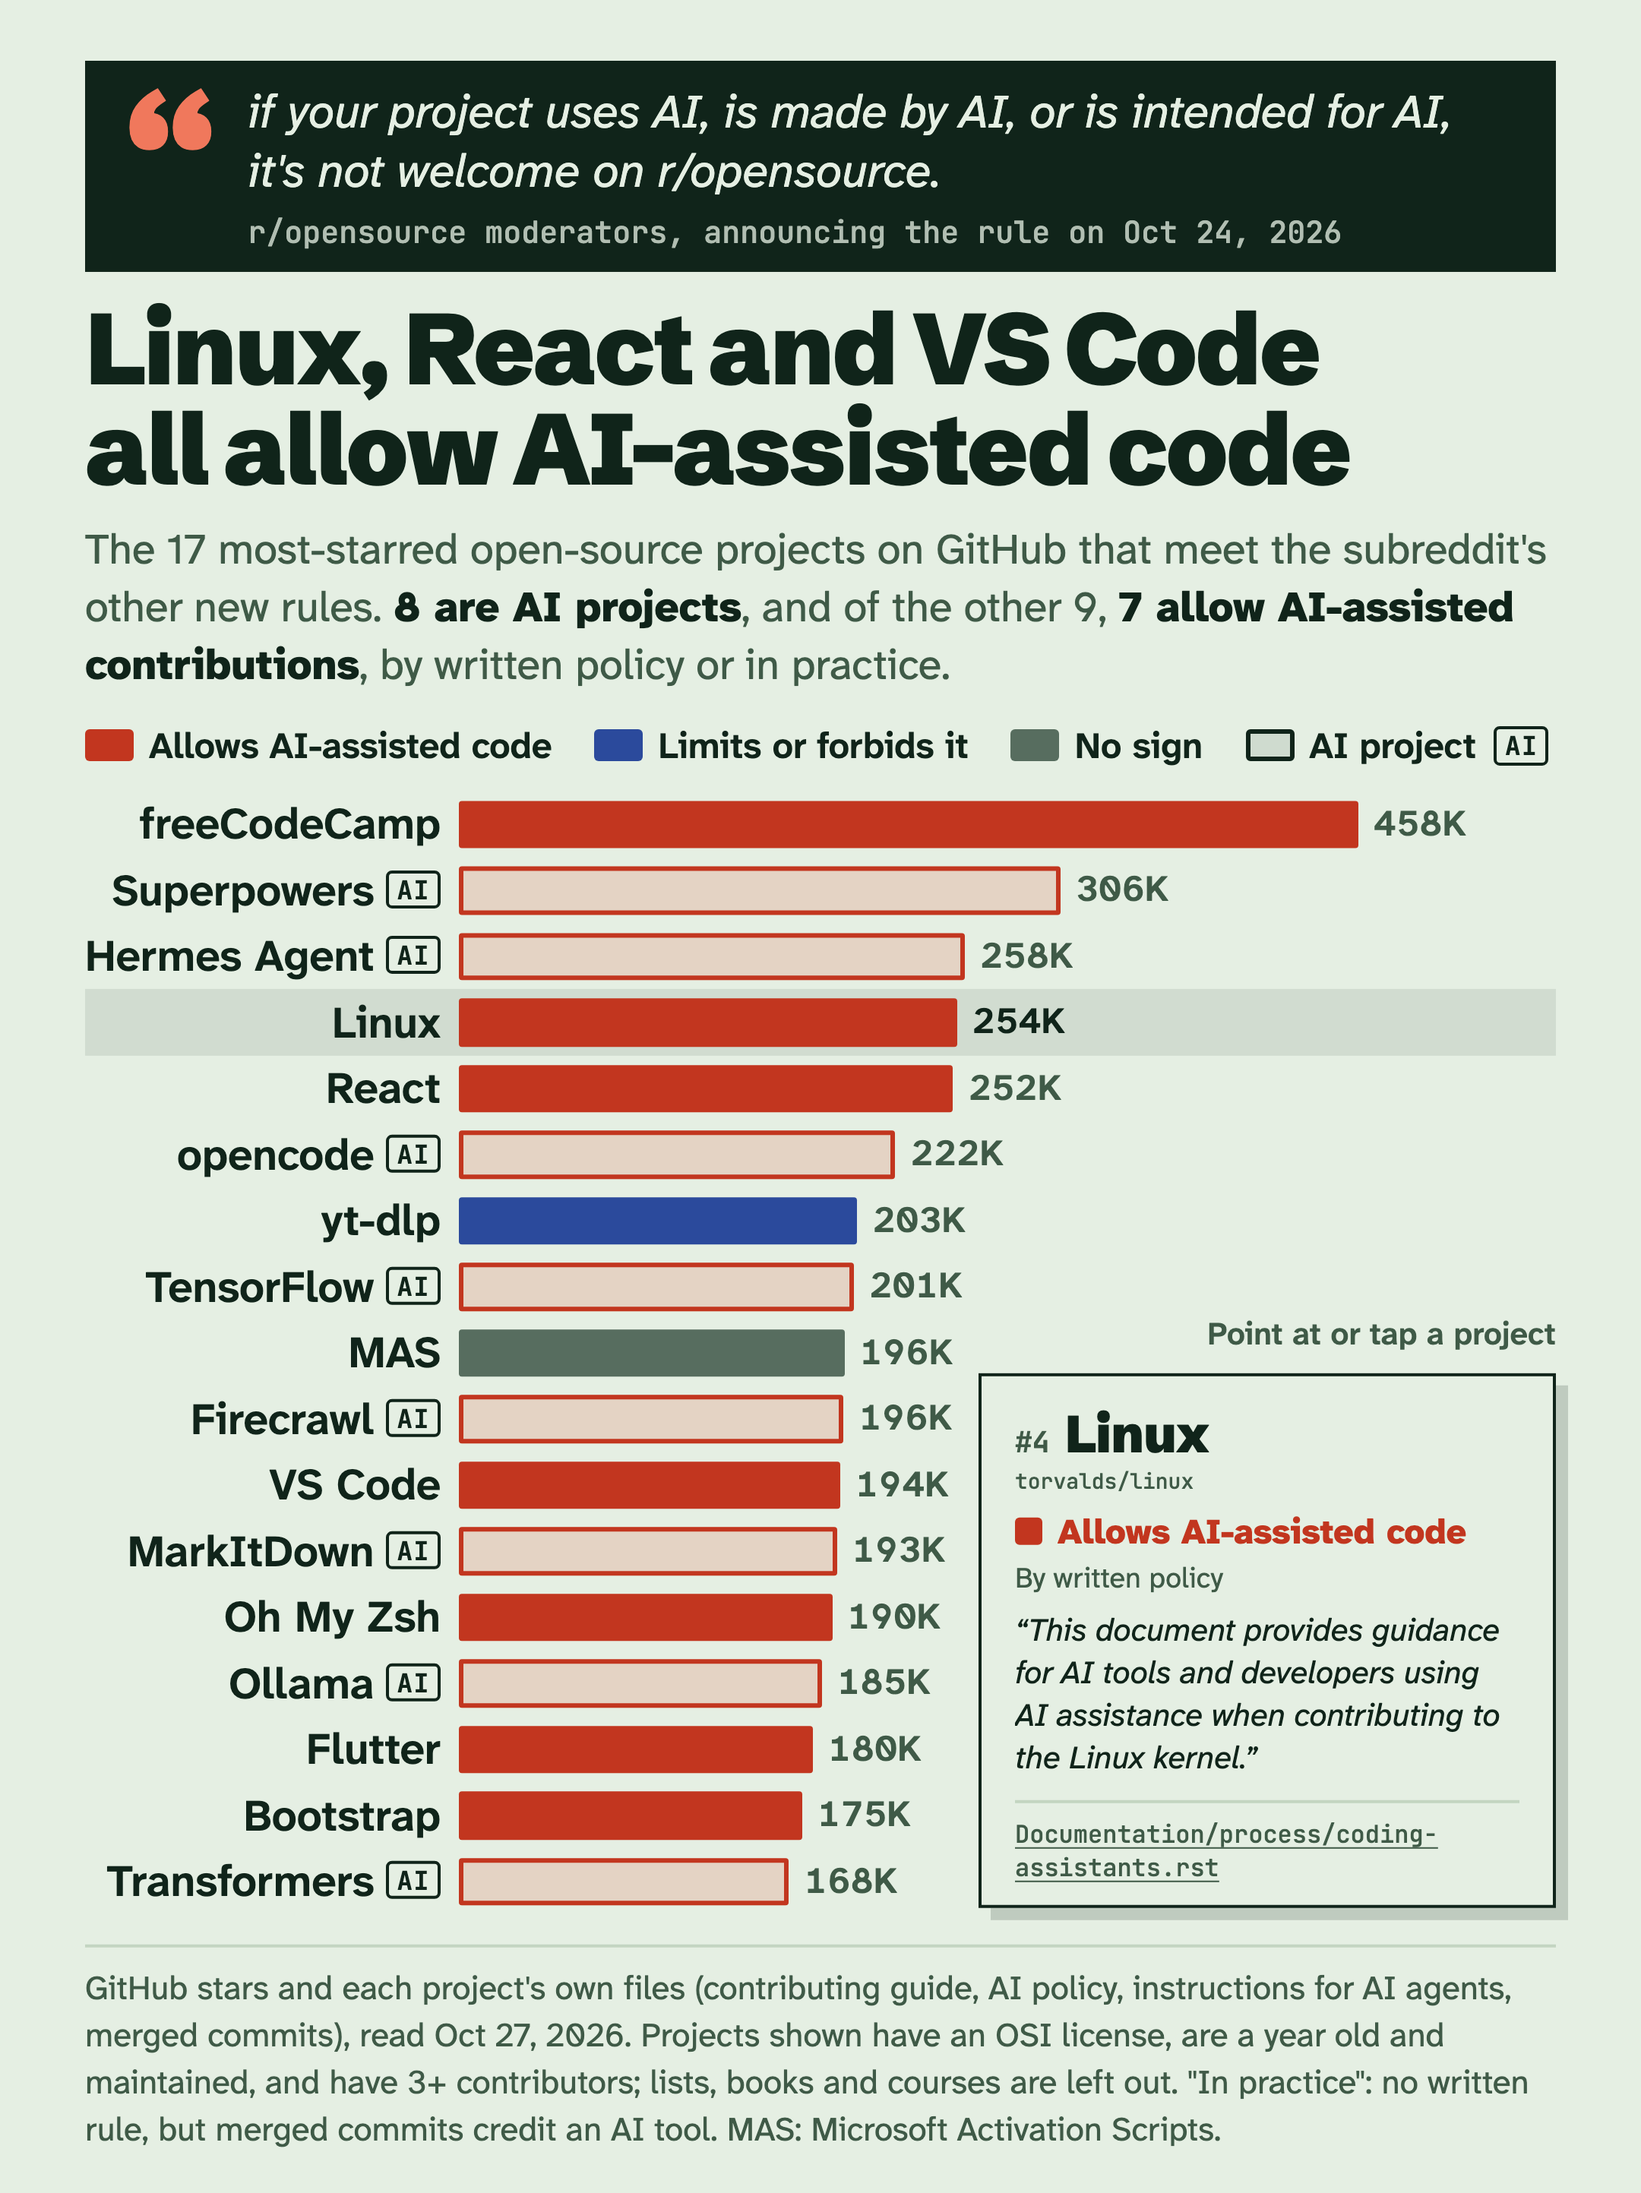
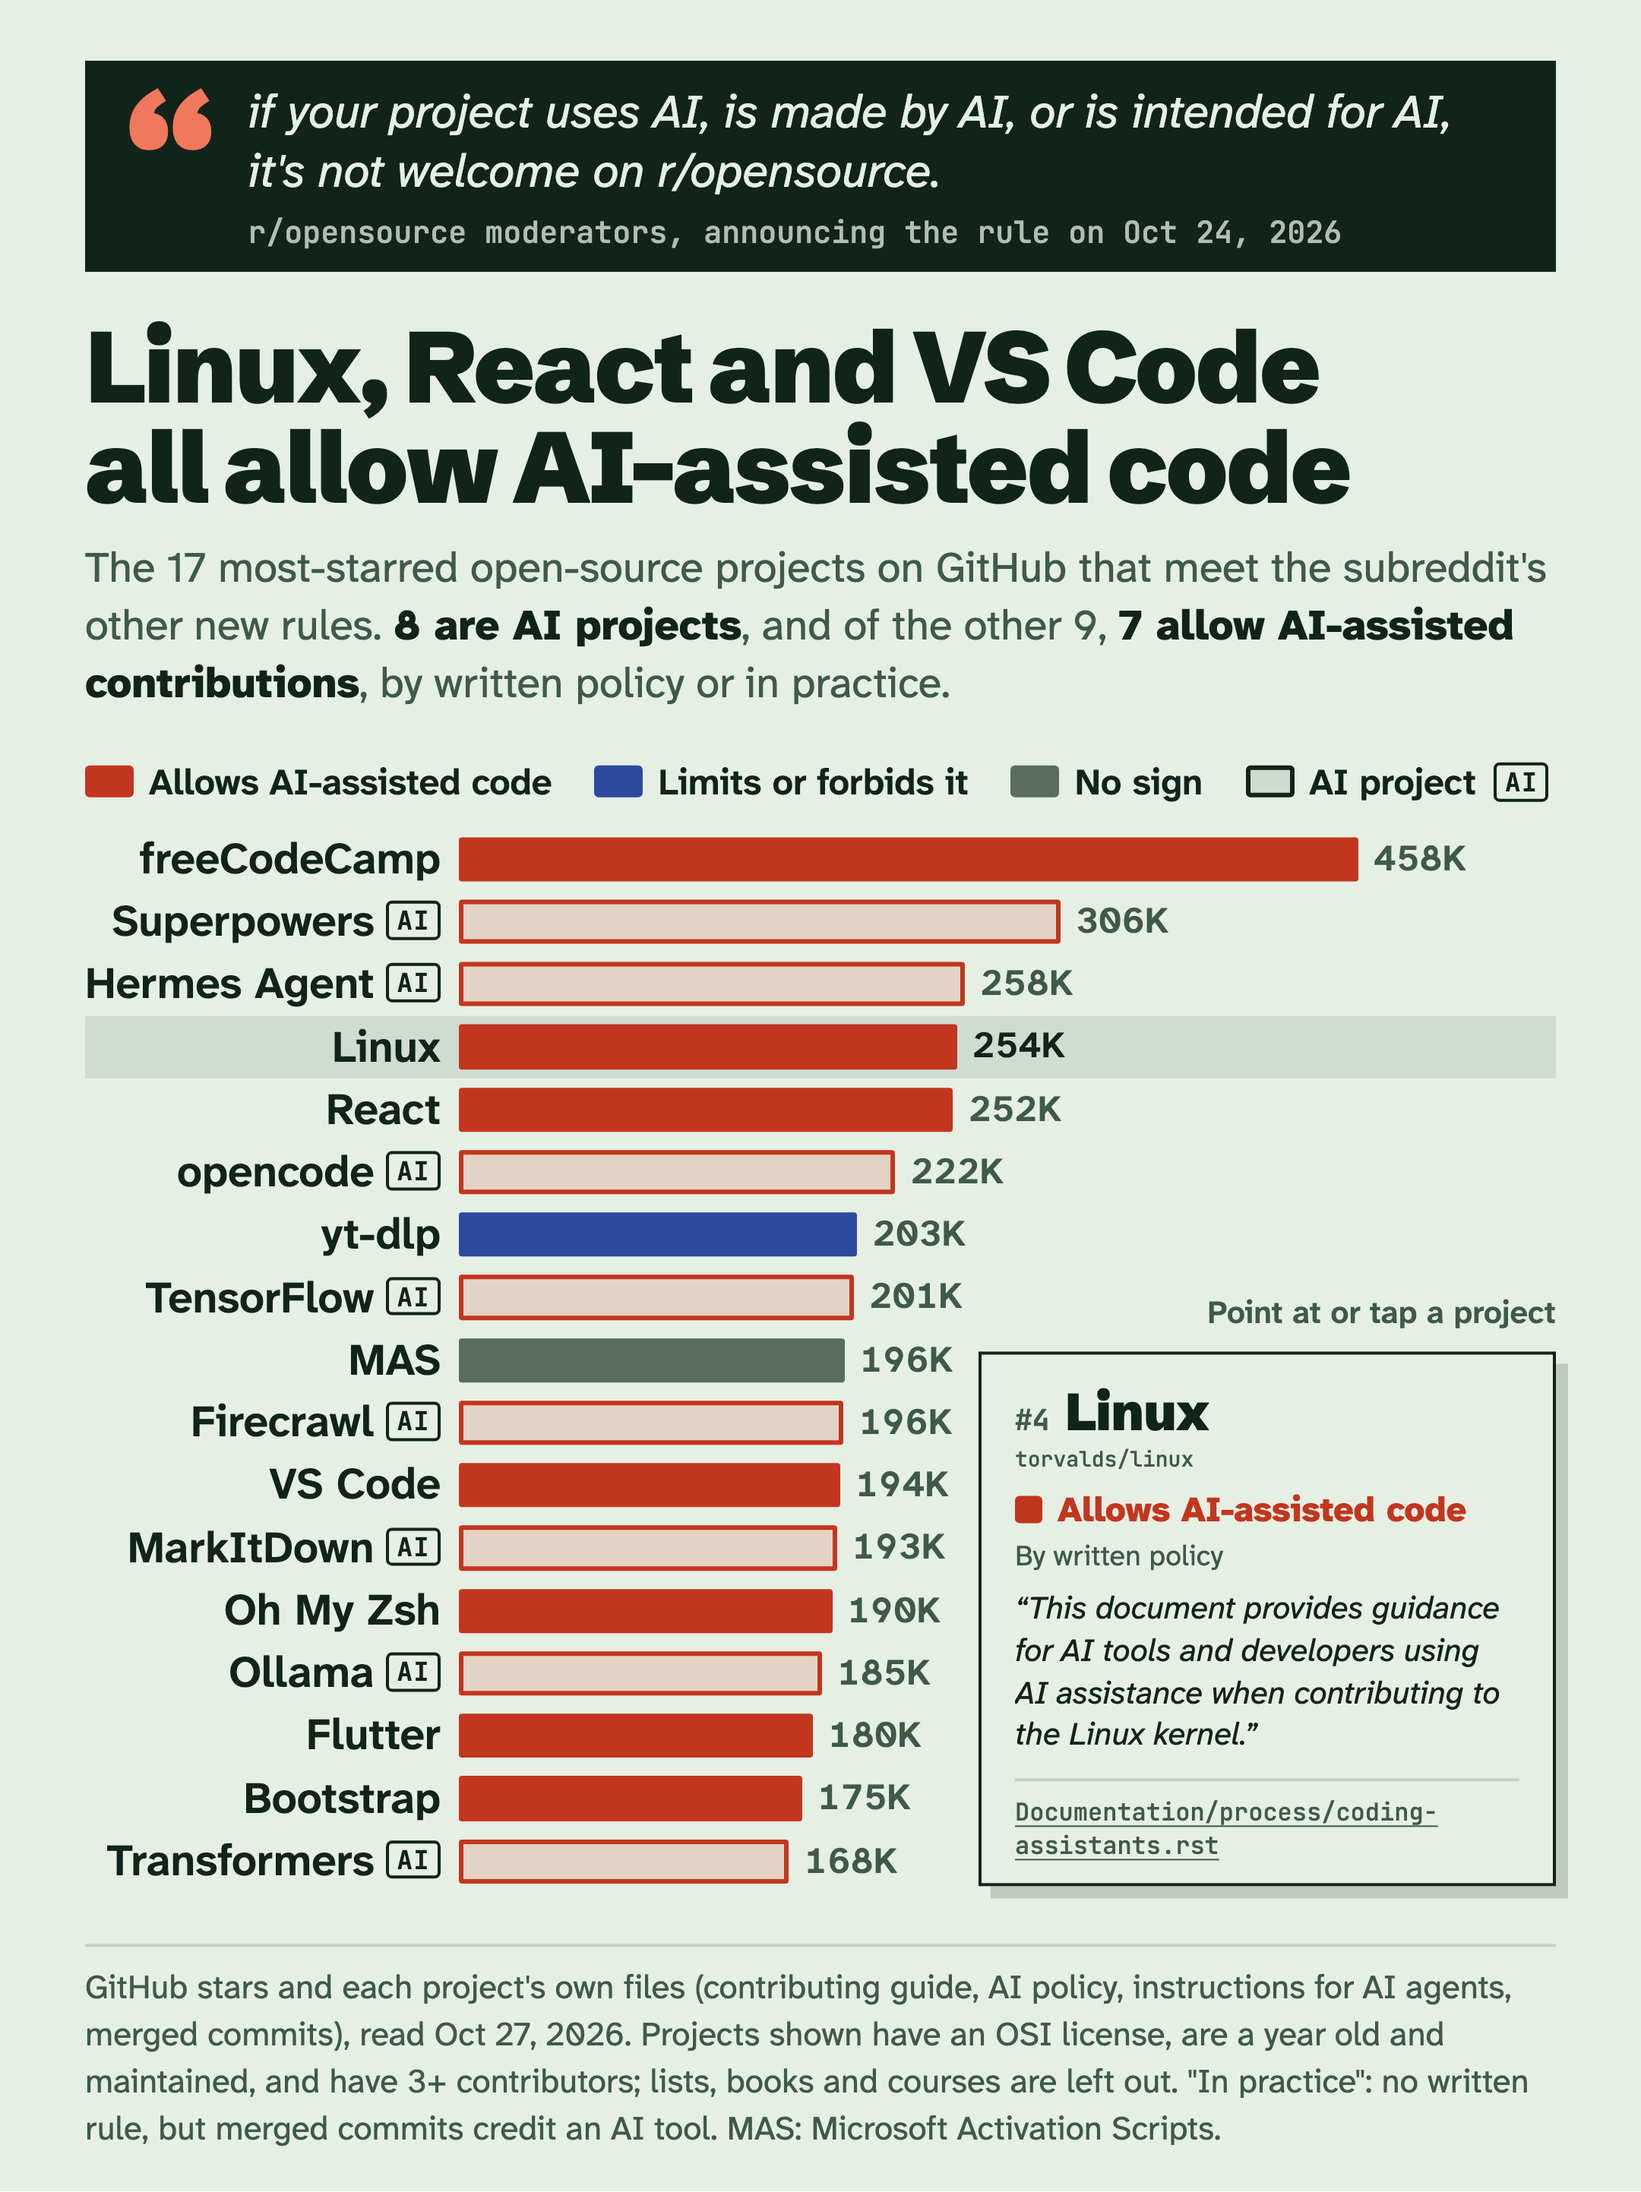
Give the AI chart poster more room below the quote, the dek and the bars

Changed region(s): [[0.031, 0.1247, 0.9616, 0.8732], [0.5894, 0.5925, 0.9616, 0.8732], [0.0, 0.9979, 1.0, 1.0]]

diff --git a/examples/real/ai-allowed/ai-allowed-chart.html b/examples/real/ai-allowed/ai-allowed-chart.html
@@ -22,11 +22,11 @@
   .poster { position: relative; display: grid; grid-template-columns: minmax(0, 1fr); max-width: 1080px; margin: 0 auto; padding: 40px 56px 26px; background: var(--paper); color: var(--ink); }
   .poster figcaption { display: contents; }
   .poster .headline { order: 3; max-width: 17em; margin: 0 0 14px; font: 900 66px/1 var(--display); letter-spacing: -.02em; text-wrap: balance; }
-  .poster .dek { order: 4; max-width: 60ch; margin: 0 0 18px; font-size: 28px; line-height: 1.36; color: var(--soft); }
+  .poster .dek { order: 4; max-width: 60ch; margin: 0 0 30px; font-size: 28px; line-height: 1.36; color: var(--soft); }
   .poster .dek b { color: var(--ink); font-weight: 800; }
-  .poster .note { order: 7; display: block; margin-top: 18px; padding-top: 12px; border-top: 2px solid var(--rule); font-size: 22px; line-height: 1.4; color: var(--soft); }
+  .poster .note { order: 7; display: block; margin-top: 32px; padding-top: 12px; border-top: 2px solid var(--rule); font-size: 22px; line-height: 1.4; color: var(--soft); }
   /* The rule, as the subreddit's moderators wrote it, as on the infographic: the first thing on the poster */
-  .rule { order: 1; display: grid; grid-template-columns: auto minmax(0, 1fr); column-gap: 20px; margin: 0 0 18px; padding: 14px 26px 13px; background: var(--ink); color: var(--paper); }
+  .rule { order: 1; display: grid; grid-template-columns: auto minmax(0, 1fr); column-gap: 20px; margin: 0 0 30px; padding: 14px 26px 13px; background: var(--ink); color: var(--paper); }
   .rule .mark { grid-row: span 2; font: 900 104px/.8 var(--display); color: #f0785c; }
   .rule .words { font: italic 400 31px/1.27 var(--text); }
   .rule cite { margin-top: 7px; font: 500 20px/1.3 var(--mono); font-style: normal; color: color-mix(in oklab, var(--paper) 78%, var(--ink)); }
@@ -73,12 +73,12 @@
     body { padding: 16px 16px 32px; }
     .poster { padding: 26px 18px 18px; }
     .poster .headline { font-size: 36px; }
-    .rule { margin-bottom: 14px; padding: 10px 12px; column-gap: 10px; }
+    .rule { margin-bottom: 20px; padding: 10px 12px; column-gap: 10px; }
     .rule .mark { font-size: 52px; }
     .rule .words { font-size: 17px; }
     .rule cite { font-size: 12px; }
-    .poster .dek { font-size: 16px; margin-bottom: 14px; }
-    .poster .note { font-size: 13px; }
+    .poster .dek { font-size: 16px; margin-bottom: 20px; }
+    .poster .note { margin-top: 22px; font-size: 13px; }
     .keys { gap: 6px 16px; font-size: 14px; }
     .keys i { width: 22px; height: 14px; }
     .keys .hollow { outline-width: 2px; outline-offset: -2px; }
@@ -139,7 +139,7 @@ const aiCount = ROWS.length - notAi.length;
 // Slat type: the project's name (with an AI tag when it is built for AI), its stars as a bar in its stance's color
 // (hollow when it is an AI project), and the count
 const Project = slat({
-  thickness: 43.5,
+  thickness: 41.25,
   inset: "6px",
   room: { start: "auto", end: 76 },
   css: `

diff --git a/examples/real/ai-allowed/chart.template.html b/examples/real/ai-allowed/chart.template.html
@@ -22,11 +22,11 @@
   .poster { position: relative; display: grid; grid-template-columns: minmax(0, 1fr); max-width: 1080px; margin: 0 auto; padding: 40px 56px 26px; background: var(--paper); color: var(--ink); }
   .poster figcaption { display: contents; }
   .poster .headline { order: 3; max-width: 17em; margin: 0 0 14px; font: 900 66px/1 var(--display); letter-spacing: -.02em; text-wrap: balance; }
-  .poster .dek { order: 4; max-width: 60ch; margin: 0 0 18px; font-size: 28px; line-height: 1.36; color: var(--soft); }
+  .poster .dek { order: 4; max-width: 60ch; margin: 0 0 30px; font-size: 28px; line-height: 1.36; color: var(--soft); }
   .poster .dek b { color: var(--ink); font-weight: 800; }
-  .poster .note { order: 7; display: block; margin-top: 18px; padding-top: 12px; border-top: 2px solid var(--rule); font-size: 22px; line-height: 1.4; color: var(--soft); }
+  .poster .note { order: 7; display: block; margin-top: 32px; padding-top: 12px; border-top: 2px solid var(--rule); font-size: 22px; line-height: 1.4; color: var(--soft); }
   /* The rule, as the subreddit's moderators wrote it, as on the infographic: the first thing on the poster */
-  .rule { order: 1; display: grid; grid-template-columns: auto minmax(0, 1fr); column-gap: 20px; margin: 0 0 18px; padding: 14px 26px 13px; background: var(--ink); color: var(--paper); }
+  .rule { order: 1; display: grid; grid-template-columns: auto minmax(0, 1fr); column-gap: 20px; margin: 0 0 30px; padding: 14px 26px 13px; background: var(--ink); color: var(--paper); }
   .rule .mark { grid-row: span 2; font: 900 104px/.8 var(--display); color: #f0785c; }
   .rule .words { font: italic 400 31px/1.27 var(--text); }
   .rule cite { margin-top: 7px; font: 500 20px/1.3 var(--mono); font-style: normal; color: color-mix(in oklab, var(--paper) 78%, var(--ink)); }
@@ -73,12 +73,12 @@
     body { padding: 16px 16px 32px; }
     .poster { padding: 26px 18px 18px; }
     .poster .headline { font-size: 36px; }
-    .rule { margin-bottom: 14px; padding: 10px 12px; column-gap: 10px; }
+    .rule { margin-bottom: 20px; padding: 10px 12px; column-gap: 10px; }
     .rule .mark { font-size: 52px; }
     .rule .words { font-size: 17px; }
     .rule cite { font-size: 12px; }
-    .poster .dek { font-size: 16px; margin-bottom: 14px; }
-    .poster .note { font-size: 13px; }
+    .poster .dek { font-size: 16px; margin-bottom: 20px; }
+    .poster .note { margin-top: 22px; font-size: 13px; }
     .keys { gap: 6px 16px; font-size: 14px; }
     .keys i { width: 22px; height: 14px; }
     .keys .hollow { outline-width: 2px; outline-offset: -2px; }
@@ -139,7 +139,7 @@ const aiCount = ROWS.length - notAi.length;
 // Slat type: the project's name (with an AI tag when it is built for AI), its stars as a bar in its stance's color
 // (hollow when it is an AI project), and the count
 const Project = slat({
-  thickness: 43.5,
+  thickness: 41.25,
   inset: "6px",
   room: { start: "auto", end: 76 },
   css: `
